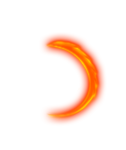
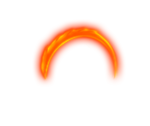
Ataque en 360 hecho, hacer animación más larga

Changed region(s): [[0.2143, 0.1667, 0.8095, 0.8333]]

diff --git a/Assets/Proyecto/Scripts/Player/melee.cs b/Assets/Proyecto/Scripts/Player/melee.cs
@@ -163,7 +163,7 @@ public class melee : MonoBehaviour
                     Instantiate(particles, new Vector2(transform.position.x + -1 * attackRange, transform.position.y + 0 * -attackRange), Quaternion.identity);
                     ataquei2.transform.position = new Vector2(transform.position.x, transform.position.y);
                     //this.transform.rotation = Quaternion.Euler(new Vector3(0, 0, 90 - 0));
-                    ataquei2.transform.rotation = Quaternion.Euler(new Vector3(0, 0, this.transform.localEulerAngles.z - 0));
+                    ataquei2.transform.rotation = Quaternion.Euler(new Vector3(0, 0, this.transform.localEulerAngles.z));
                     Debug.Log(this.transform.localEulerAngles.z);
 
                     /*
@@ -188,8 +188,8 @@ public class melee : MonoBehaviour
                     Instantiate(particles, new Vector2(transform.position.x + +1 * attackRange, transform.position.y + 0 * -attackRange), Quaternion.identity);
                     ataquei2.transform.position = new Vector2(transform.position.x + +1 * attackRange, transform.position.y + 0 * -attackRange);
                     this.transform.rotation = Quaternion.Euler(new Vector3(0, 0, 270 - 0));
-                    ataquei2.transform.rotation = Quaternion.Euler(new Vector3(0, 0, 0 - 0));
-
+                    //ataquei2.transform.rotation = Quaternion.Euler(new Vector3(0, 0, 0 - 0));
+                    ataquei2.transform.rotation = Quaternion.Euler(new Vector3(0, 0, this.transform.localEulerAngles.z - 0));
                     //Destroy(this.ataquei2, 1);
                     timer = attackCD;
                 }
@@ -199,8 +199,8 @@ public class melee : MonoBehaviour
                     Instantiate(particles, new Vector2(transform.position.x + 0 * attackRange, transform.position.y + -1 * -attackRange), Quaternion.identity);
                     ataquei2.transform.position = new Vector2(transform.position.x + 0 * attackRange, transform.position.y + -1 * -attackRange);
                     this.transform.rotation = Quaternion.Euler(new Vector3(0, 0, 0 - 0));
-                    ataquei2.transform.rotation = Quaternion.Euler(new Vector3(0, 0, 0 + 90));
-
+                    //ataquei2.transform.rotation = Quaternion.Euler(new Vector3(0, 0, 0 + 90));
+                    ataquei2.transform.rotation = Quaternion.Euler(new Vector3(0, 0, this.transform.localEulerAngles.z - 0));
                     ///Destroy(this.ataquei2, 1);
                     timer = attackCD;
                 }
@@ -210,8 +210,8 @@ public class melee : MonoBehaviour
                     Instantiate(particles, new Vector2(transform.position.x + 0 * attackRange, transform.position.y + 1 * -attackRange), Quaternion.identity);
                     ataquei2.transform.position = new Vector2(transform.position.x + 0 * attackRange, transform.position.y + 1 * -attackRange);
                     this.transform.rotation = Quaternion.Euler(new Vector3(0, 0, 0 - 180));
-                    ataquei2.transform.rotation = Quaternion.Euler(new Vector3(0, 0, 0 - 90));
-
+                    //ataquei2.transform.rotation = Quaternion.Euler(new Vector3(0, 0, 0 - 90));
+                    ataquei2.transform.rotation = Quaternion.Euler(new Vector3(0, 0, this.transform.localEulerAngles.z - 0));
                     //Destroy(this.ataquei2, 1);
                     timer = attackCD;
                 }
